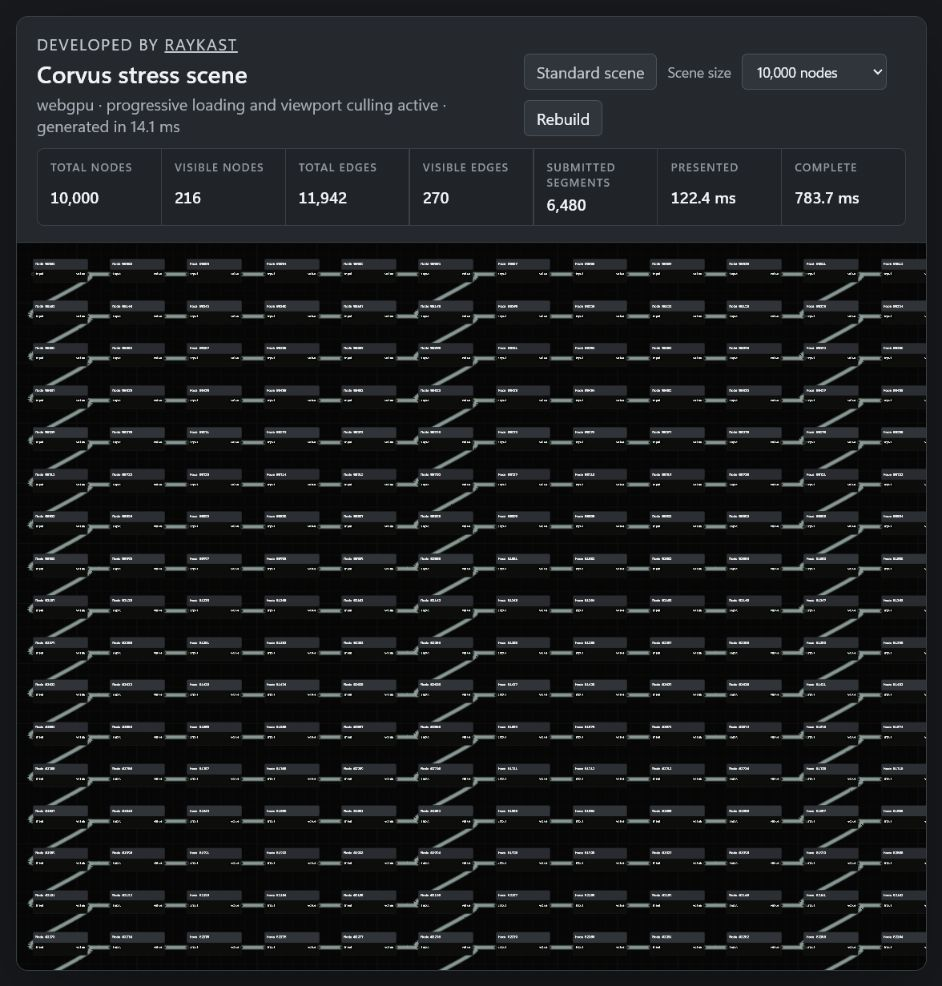
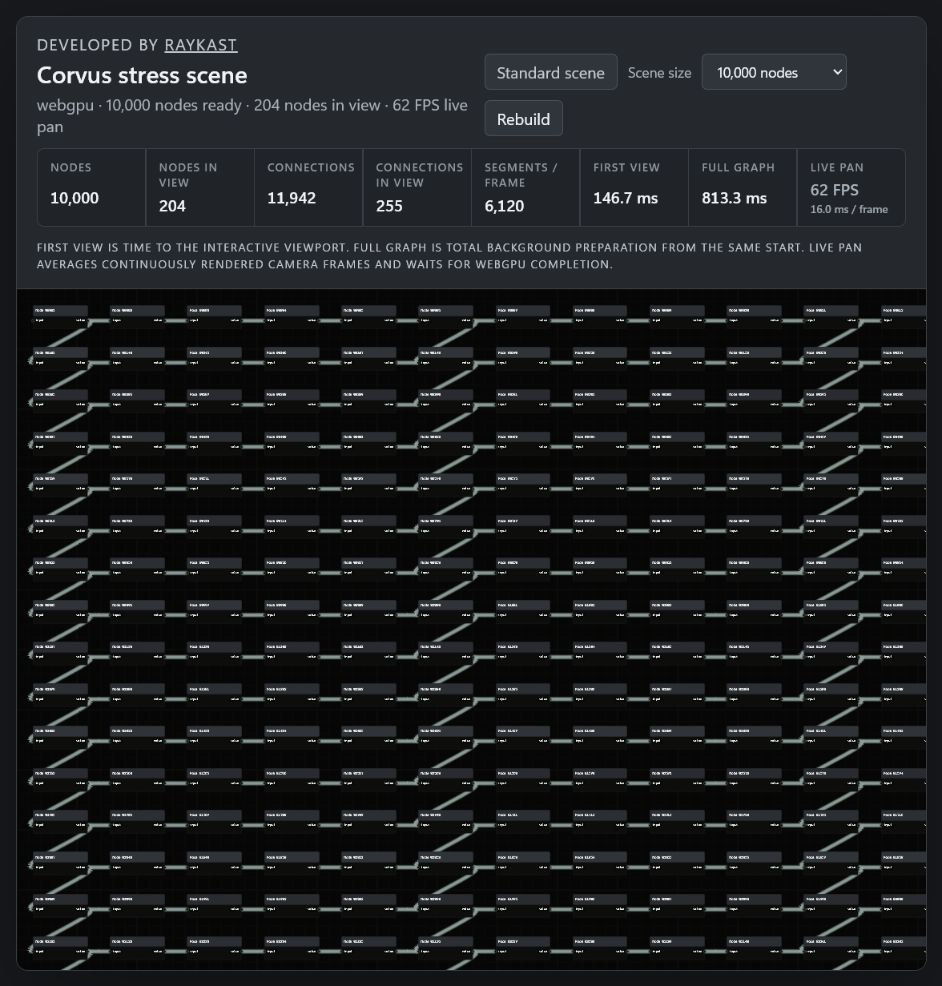
perf: clarify stress rendering metrics

Changed region(s): [[0.0, 0.0609, 0.9851, 1.0]]

diff --git a/demo/stress-main.js b/demo/stress-main.js
@@ -22,8 +22,11 @@ const metrics = {
     visibleEdges: document.querySelector('[data-metric="visible-edges"]'),
     segments: document.querySelector('[data-metric="segments"]'),
     present: document.querySelector('[data-metric="present"]'),
-    prepare: document.querySelector('[data-metric="prepare"]')
+    prepare: document.querySelector('[data-metric="prepare"]'),
+    liveFps: document.querySelector('[data-metric="live-fps"]'),
+    liveFrame: document.querySelector('[data-metric="live-frame"]')
 };
+const LIVE_PAN_FRAME_COUNT = 30;
 let positions = {};
 let model = null;
 let rendererBackend = "starting";
@@ -44,6 +47,11 @@ function updateRendererMetrics() {
 function scheduleRendererMetrics() {
     cancelAnimationFrame(metricFrame);
     metricFrame = requestAnimationFrame(updateRendererMetrics);
+}
+
+async function waitForRenderedFrame() {
+    await new Promise((resolve) => requestAnimationFrame(resolve));
+    await editor.whenRendererIdle();
 }
 
 const editor = createNodeEditor(container, {
@@ -181,6 +189,54 @@ function pasteNodes(revision, graphPoint) {
     });
 }
 
+function preparationIsCurrent(revision, preparation) {
+    return revision === loadRevision
+        && editor.presented === preparation.presented
+        && editor.prepared === preparation.prepared;
+}
+
+async function measureLivePan(revision, preparation) {
+    const startingView = editor.getView();
+    const frameTimes = new Float64Array(LIVE_PAN_FRAME_COUNT);
+    for (let index = 0; index < LIVE_PAN_FRAME_COUNT; index += 1) {
+        if (!preparationIsCurrent(revision, preparation)) return null;
+        const frameStarted = performance.now();
+        editor.setView({
+            ...startingView,
+            scrollLeft: startingView.scrollLeft + (index % 2) * 0.75
+        });
+        await waitForRenderedFrame();
+        frameTimes[index] = performance.now() - frameStarted;
+    }
+    editor.setView(startingView);
+    await waitForRenderedFrame();
+    if (!preparationIsCurrent(revision, preparation)) return null;
+    let totalFrameTime = 0;
+    for (let index = 0; index < frameTimes.length; index += 1) {
+        totalFrameTime += frameTimes[index];
+    }
+    const frameTime = totalFrameTime / frameTimes.length;
+    return {
+        frameTime,
+        fps: 1000 / frameTime
+    };
+}
+
+async function finishLiveBenchmark(revision, preparation, label) {
+    metrics.liveFps.textContent = "measuring…";
+    metrics.liveFrame.textContent = "forced camera frames";
+    status.textContent = `${rendererBackend} · full graph ready · measuring live pan rendering`;
+    const live = await measureLivePan(revision, preparation);
+    if (!live) return false;
+    metrics.liveFps.textContent = `${live.fps.toFixed(0)} FPS`;
+    metrics.liveFrame.textContent = `${live.frameTime.toFixed(1)} ms / frame`;
+    const renderer = editor.stats();
+    status.textContent = `${rendererBackend} · ${label} · ${number.format(renderer.visibleNodeCount)} nodes in view · ${live.fps.toFixed(0)} FPS live pan`;
+    sizeControl.disabled = false;
+    rebuildButton.disabled = false;
+    return true;
+}
+
 async function presentGraphMutation(revision, label, selection) {
     const preparationStarted = performance.now();
     const preparation = renderStressModel(
@@ -189,7 +245,7 @@ async function presentGraphMutation(revision, label, selection) {
         selection
     );
     await preparation.presented;
-    await new Promise((resolve) => requestAnimationFrame(resolve));
+    await waitForRenderedFrame();
     if (
         revision !== loadRevision
         || editor.presented !== preparation.presented
@@ -200,9 +256,11 @@ async function presentGraphMutation(revision, label, selection) {
     updateRendererMetrics();
     metrics.present.textContent = `${presentationTime.toFixed(1)} ms`;
     metrics.prepare.textContent = "loading…";
+    metrics.liveFps.textContent = "waiting…";
+    metrics.liveFrame.textContent = "full graph first";
     status.textContent = `${rendererBackend} · ${label} · completing updated graph in background`;
     await preparation.prepared;
-    await new Promise((resolve) => requestAnimationFrame(resolve));
+    await waitForRenderedFrame();
     if (
         revision !== loadRevision
         || editor.prepared !== preparation.prepared
@@ -212,9 +270,7 @@ async function presentGraphMutation(revision, label, selection) {
     const preparationTime = performance.now() - preparationStarted;
     updateRendererMetrics();
     metrics.prepare.textContent = `${preparationTime.toFixed(1)} ms`;
-    status.textContent = `${rendererBackend} · ${label} · ${number.format(model.nodes.length)} nodes · ${number.format(model.edges.length)} connections · updated in ${preparationTime.toFixed(1)} ms`;
-    sizeControl.disabled = false;
-    rebuildButton.disabled = false;
+    await finishLiveBenchmark(revision, preparation, label);
 }
 
 async function loadScene() {
@@ -224,44 +280,46 @@ async function loadScene() {
     rebuildButton.disabled = true;
     status.textContent = `Building ${number.format(count)} nodes…`;
     await new Promise((resolve) => requestAnimationFrame(resolve));
-    const generationStarted = performance.now();
+    const loadStarted = performance.now();
     const scene = createStressScene(count);
-    const generationTime = performance.now() - generationStarted;
     model = scene.model;
     positions = scene.positions;
     copiedNodeIds = [];
-    const preparationStarted = performance.now();
     const preparation = renderStressModel(
         revision,
         { zoom: 0.5, scrollLeft: 0, scrollTop: 0 }
     );
     await preparation.presented;
-    await new Promise((resolve) => requestAnimationFrame(resolve));
+    await waitForRenderedFrame();
     if (
         revision !== loadRevision
         || editor.presented !== preparation.presented
     ) {
         return;
     }
-    const presentationTime = performance.now() - preparationStarted;
+    const presentationTime = performance.now() - loadStarted;
     updateRendererMetrics();
     metrics.present.textContent = `${presentationTime.toFixed(1)} ms`;
     metrics.prepare.textContent = "loading…";
-    status.textContent = `${rendererBackend} · graph presented · completing in background`;
+    metrics.liveFps.textContent = "waiting…";
+    metrics.liveFrame.textContent = "full graph first";
+    status.textContent = `${rendererBackend} · first view interactive · completing full graph in background`;
     await preparation.prepared;
-    await new Promise((resolve) => requestAnimationFrame(resolve));
+    await waitForRenderedFrame();
     if (
         revision !== loadRevision
         || editor.prepared !== preparation.prepared
     ) {
         return;
     }
-    const preparationTime = performance.now() - preparationStarted;
+    const preparationTime = performance.now() - loadStarted;
     updateRendererMetrics();
     metrics.prepare.textContent = `${preparationTime.toFixed(1)} ms`;
-    status.textContent = `${rendererBackend} · progressive loading and viewport culling active · generated in ${generationTime.toFixed(1)} ms`;
-    sizeControl.disabled = false;
-    rebuildButton.disabled = false;
+    await finishLiveBenchmark(
+        revision,
+        preparation,
+        `${number.format(model.nodes.length)} nodes ready`
+    );
 }
 
 sizeControl.addEventListener("change", loadScene);

diff --git a/stress.html b/stress.html
@@ -30,14 +30,24 @@
                     </nav>
                 </div>
                 <dl class="stress-metrics" aria-label="Stress scene metrics">
-                    <div><dt>Total nodes</dt><dd data-metric="nodes">—</dd></div>
-                    <div><dt>Visible nodes</dt><dd data-metric="visible-nodes">—</dd></div>
-                    <div><dt>Total edges</dt><dd data-metric="edges">—</dd></div>
-                    <div><dt>Visible edges</dt><dd data-metric="visible-edges">—</dd></div>
-                    <div><dt>Submitted segments</dt><dd data-metric="segments">—</dd></div>
-                    <div><dt>Presented</dt><dd data-metric="present">—</dd></div>
-                    <div><dt>Complete</dt><dd data-metric="prepare">—</dd></div>
+                    <div><dt>Nodes</dt><dd data-metric="nodes">—</dd></div>
+                    <div><dt>Nodes in view</dt><dd data-metric="visible-nodes">—</dd></div>
+                    <div><dt>Connections</dt><dd data-metric="edges">—</dd></div>
+                    <div><dt>Connections in view</dt><dd data-metric="visible-edges">—</dd></div>
+                    <div><dt>Segments / frame</dt><dd data-metric="segments">—</dd></div>
+                    <div><dt>First view</dt><dd data-metric="present">—</dd></div>
+                    <div><dt>Full graph</dt><dd data-metric="prepare">—</dd></div>
+                    <div>
+                        <dt>Live pan</dt>
+                        <dd class="stress-live-metric">
+                            <span data-metric="live-fps">—</span>
+                            <small data-metric="live-frame"></small>
+                        </dd>
+                    </div>
                 </dl>
+                <p class="stress-metric-help">
+                    First view is time to the interactive viewport. Full graph is total background preparation from the same start. Live pan averages continuously rendered camera frames and waits for WebGPU completion.
+                </p>
             </header>
             <section id="editor" aria-label="Corvus WebGPU stress scene"></section>
         </main>

diff --git a/demo/stress.css b/demo/stress.css
@@ -33,7 +33,7 @@
 
 .stress-metrics {
     display: grid;
-    grid-template-columns: repeat(7, minmax(6.2rem, 1fr));
+    grid-template-columns: repeat(8, minmax(5.4rem, 1fr));
     margin: 0;
     gap: 1px;
     overflow: hidden;
@@ -65,6 +65,24 @@
     font-weight: 600;
 }
 
+.stress-live-metric {
+    display: grid;
+    gap: 0.1rem;
+}
+
+.stress-live-metric small {
+    color: #9da5ad;
+    font-size: 0.68rem;
+    font-weight: 500;
+}
+
+.stress-metric-help {
+    margin: 0.55rem 0 0;
+    color: #8f979f;
+    font-size: 0.72rem;
+    line-height: 1.45;
+}
+
 @media (max-width: 52rem) {
     .stress-controls {
         align-items: stretch;
@@ -72,6 +90,6 @@
     }
 
     .stress-metrics {
-        grid-template-columns: repeat(3, 1fr);
+        grid-template-columns: repeat(4, 1fr);
     }
 }

diff --git a/src/gpu-architecture.test.js b/src/gpu-architecture.test.js
@@ -37,6 +37,8 @@ describe("GPU-only graph surface architecture", () => {
         expect(surface).toContain("visibleGlyphIndexBuffer");
         expect(surface).toContain("visibleEdgeIndexBuffer");
         expect(surface).toContain("graphEdgeVisible");
+        expect(surface).toContain("onSubmittedWorkDone");
+        expect(editor).toContain("whenRendererIdle");
         expect(surface).toContain("backdropShapeCount + foregroundUnderlayCount");
         expect(shaders).toContain("visibleShapes[visibleIndex]");
         expect(shaders).toContain("visibleEdges[visibleEdgeIndex]");

diff --git a/src/webgpu-graph-surface.js b/src/webgpu-graph-surface.js
@@ -1003,6 +1003,11 @@ export class WebGpuGraphSurface {
         });
     }
 
+    async whenIdle() {
+        if (!this.device || this.destroyed) return;
+        await this.device.queue.onSubmittedWorkDone();
+    }
+
     #destroySceneBuffers() {
         this.sceneBuffers.forEach((buffer) => buffer.destroy());
         this.sceneBuffers = [];

diff --git a/src/node-editor.js b/src/node-editor.js
@@ -1428,6 +1428,11 @@ export class NodeEditor {
         this.setPreviewStates(textures);
     }
 
+    async whenRendererIdle() {
+        await this.ready;
+        await this.surface.whenIdle();
+    }
+
     stats() {
         return Object.freeze({
             nodeCount: this.model?.nodes.length ?? 0,

diff --git a/README.md b/README.md
@@ -47,11 +47,14 @@ Open the local URL printed by Vite. The complete host implementation is in
 
 Open `/stress.html` from the same development server to load a deterministic
 5,000-node graph with 5,930 connections and 142,320 potential edge segments.
-The page reports generation, first-presentation, complete-preparation, and live
-visible-work counts. Large scenes present a bounded initial viewport while the
-worker packs the complete graph; viewport culling then submits only on-screen
-nodes, text, previews, and connections to the GPU. Controls can rebuild the
-scene with 1,000, 5,000, or 10,000 nodes. Nodes can be moved, connected,
+The page reports one consistent load timeline: **First view** is time to the
+interactive viewport and **Full graph** is total background preparation from
+the same start. **Live pan** reports FPS and average frame time from a forced
+camera benchmark that waits for submitted WebGPU work. Large scenes present a
+bounded initial viewport while the worker packs the complete graph; viewport
+culling then submits only on-screen nodes, text, previews, and connections to
+the GPU. Controls can rebuild the scene with 1,000, 5,000, or 10,000 nodes.
+Nodes can be moved, connected,
 multi-selected, deleted, duplicated, copied, and pasted; connections can also
 be selected and deleted with Delete or Backspace. Every mutation is
 progressively re-packed without blocking interaction.
@@ -172,6 +175,7 @@ The returned editor provides:
 - `getView()`
 - `getPreviewTargets()`
 - `setPreviewTextures(textures)`
+- `whenRendererIdle()`
 - `stats()`
 - `destroy()`
 
